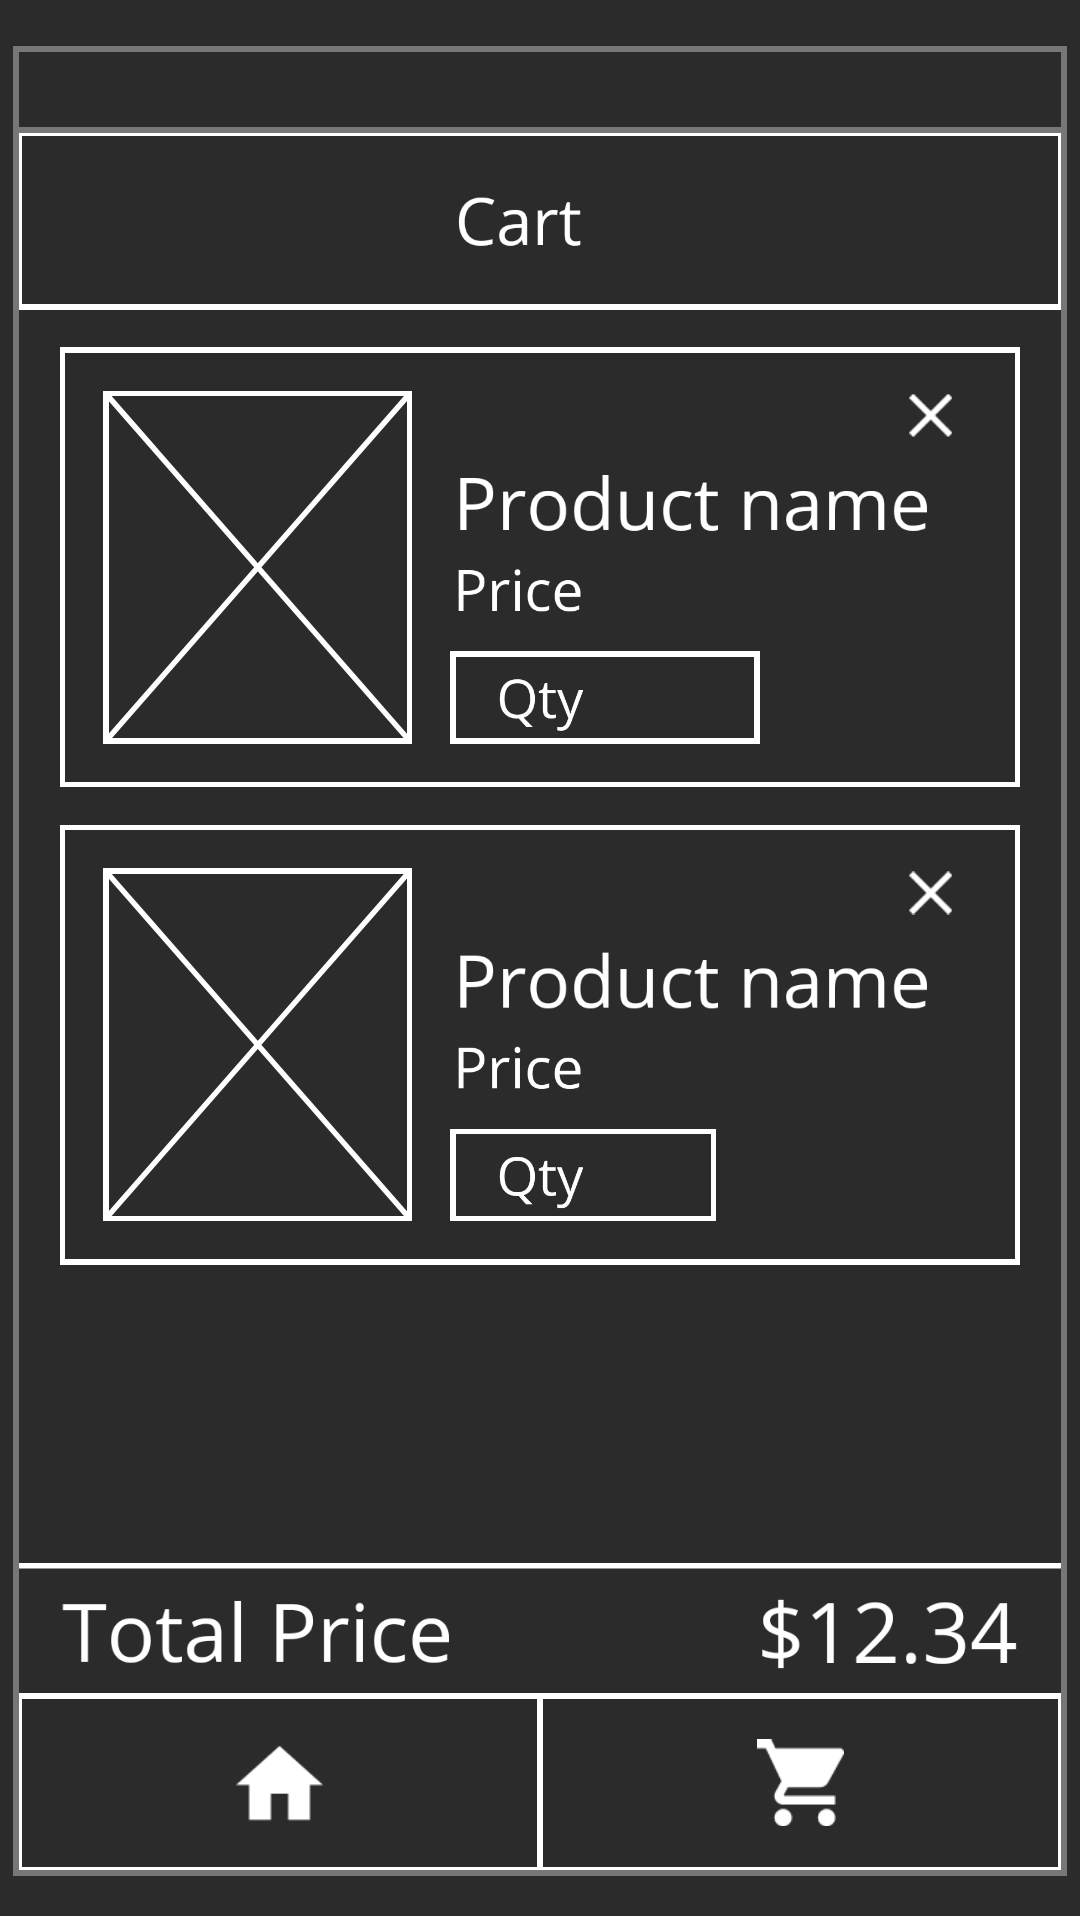
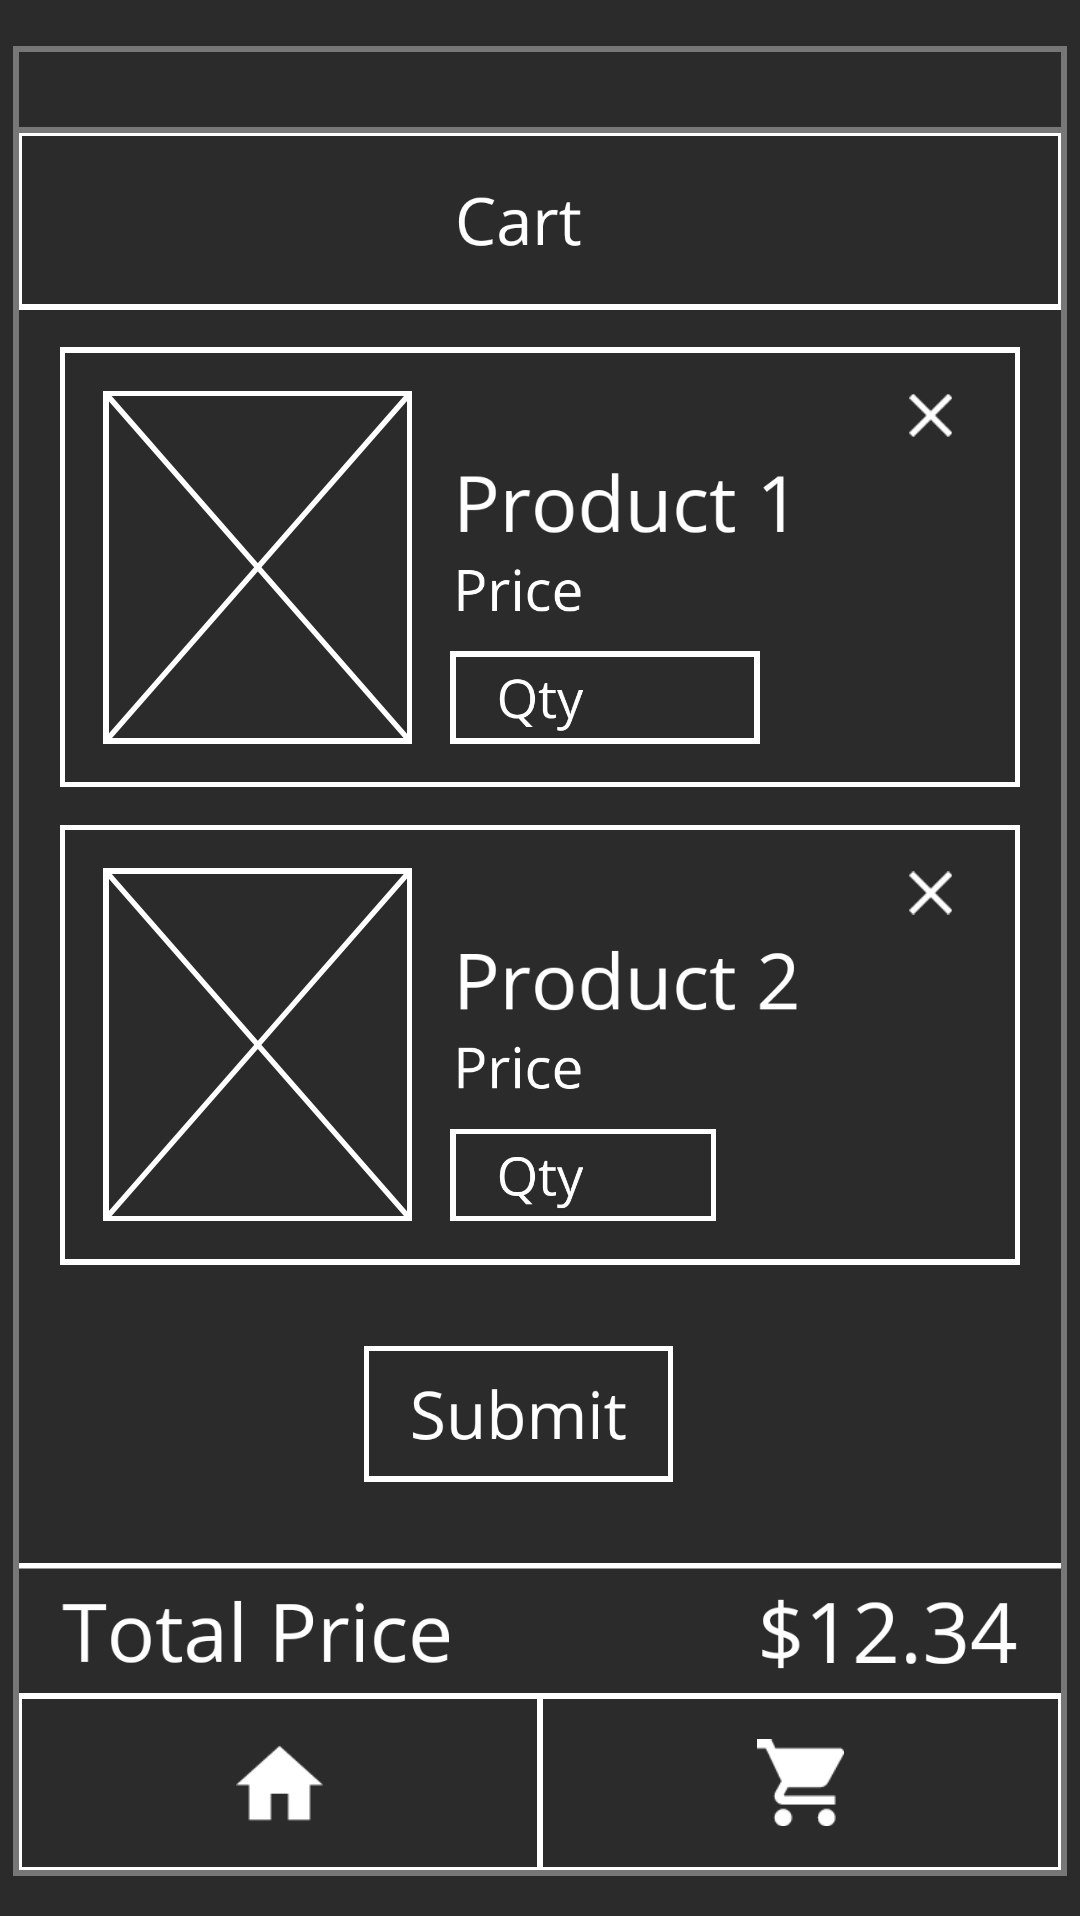
design: updated README and added additional screens

diff --git a/README.md b/README.md
@@ -36,6 +36,8 @@ Details of each section are below. Todo items are tagged according to priority (
 
 ### Catalog page
 
+#### Functions
+
 - Applcation landing page
 - AppBar includes the title "Catalog" and filter button. 
     - (2) Clicking on the filter button slides out the right drawer for users to choose additional filters
@@ -48,12 +50,50 @@ Details of each section are below. Todo items are tagged according to priority (
         - (3) Note: Ideally, I would like the user to still see the card, but grayed out. This would allow the user to make changes directly on the catalog screen. But pushed to lower priority due to complexity.
     - (3) Clicking on the card will bring up a dialog box that provides the description of the product
 
-![cart page design](screen_design/catalog.png)
+#### Catalog Page - Main
+(1) This page is displayed on launch or clicking the home button in the bottom tabs
+- Clicking on ... on the AppBar dsplays the Search and Filter Menu
+- (2) Chip bar (Filter 1) is displayed if there are any filters selected
+    - Clicking on the 'x' button removes the filter, and updates the search results
+- Clicking on the Search text input focuses the text input. As user enters the search text, search results will be updated when the user stops typing (i.e if user pauses for 500 ms)
+![cart page design](./screen_design/catalog.png)
+- Clicking on the search results calls the Add to Cart Dialog
+
+#### Catalog Page - Search and Filter Menu
+(2) This page is shown on clicking the action button on the Catalog AppBar. 
+- Min and Max Price text boxes, if filled, must be greater than 0, and Max Price must be greater than Min Price
+- Clicking on the right arrow on the Search and Filter AppBar dismisses the menu
+- Clicking on Clear Filters clears all text inputs and unchecks all checkboxes
+- Clicking on Ok dimisses the menu, and updates the search results on the Catalog Page
+
+![cart page design](./screen_design/catalog-filters.png)
+
+#### Catalog Page - Add to Cart Dialog
+(1) This dialog is displayed on clicking any of the search results on the Catalog Page - Main
+- Clicking on Cancel dismisses the dialog
+- Clicking on Add adds the item to the Cart and removes the item from the search results
+![cart page design](./screen_design/catalog-add-to-cart.png)
 
 ### Cart page
+
+#### Functions
 
 - Accessed by clicking on the cart tab button on the bottom tabs
 - (1) List of selected products. Can reuse component in Catalog page. User should be able to change quantity and remove items.
 - (1) Total price.
+- (1) Submit selected items with the patient ID
+
+#### Cart Page - Main
+(1) This page is accessed by clicking on the the cart button on the bottom tabs
+- Quantity of each item can be edited for each item
+- Clicking on the 'x' button deletes the item
+- Clicking on Submit calls the Submit dialog
 
 ![cart page design](screen_design/cart.png)
+
+#### Cart Page - Submit Dialog
+(1) This dialog is diplayed on clicking the Submit button on Cart Page - Main.
+- Patient's User ID must be entered in the text field
+- Clicking on Cancel dismisses the dialog
+- Clicking on Submit submits the collection and the user ID to the webhook
+![cart page design](screen_design/cart-submit.png)
